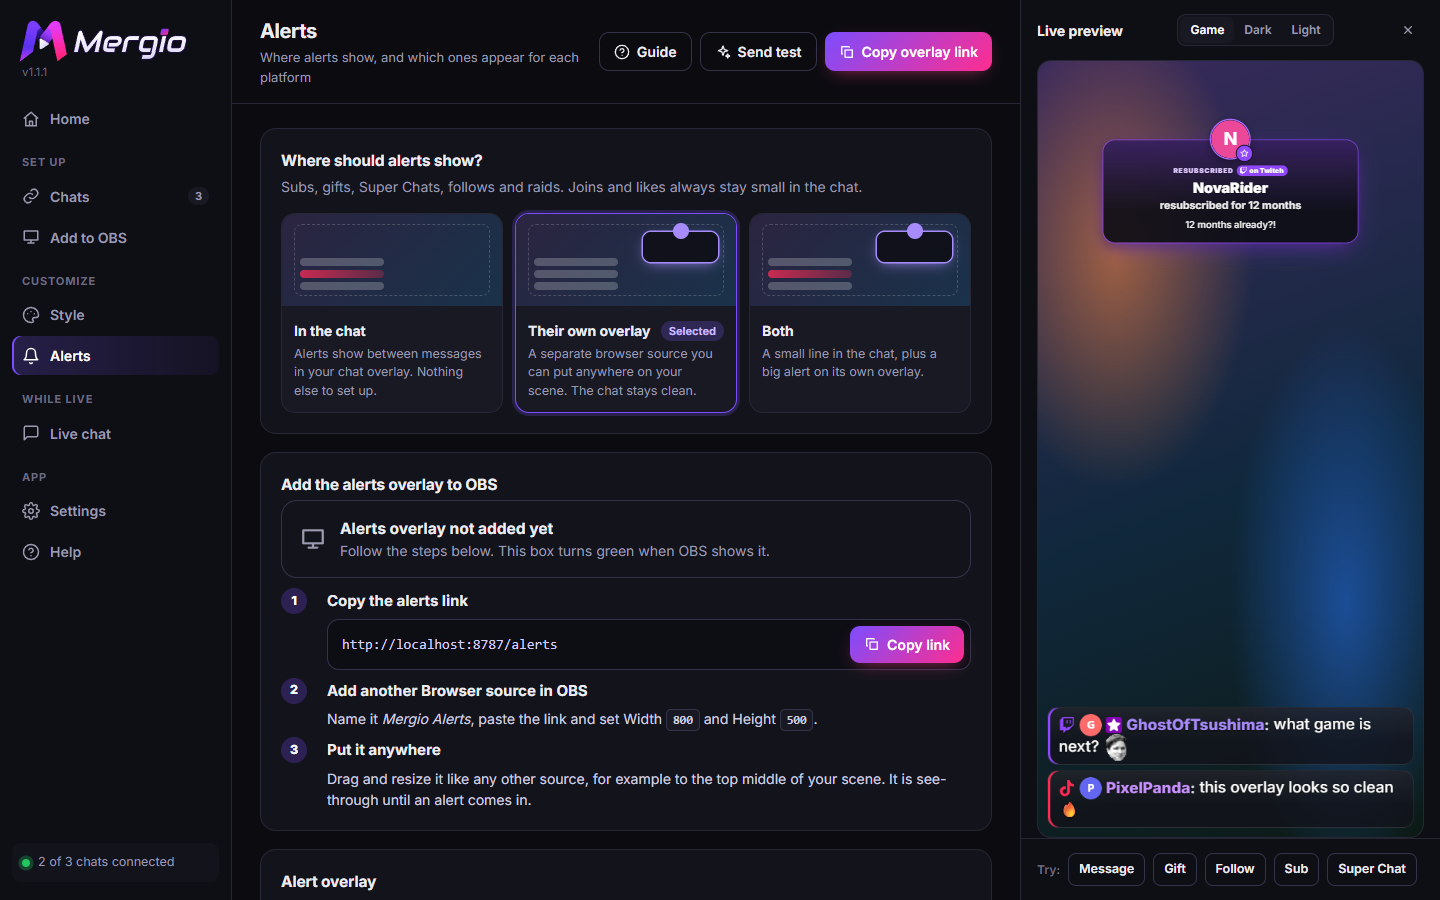
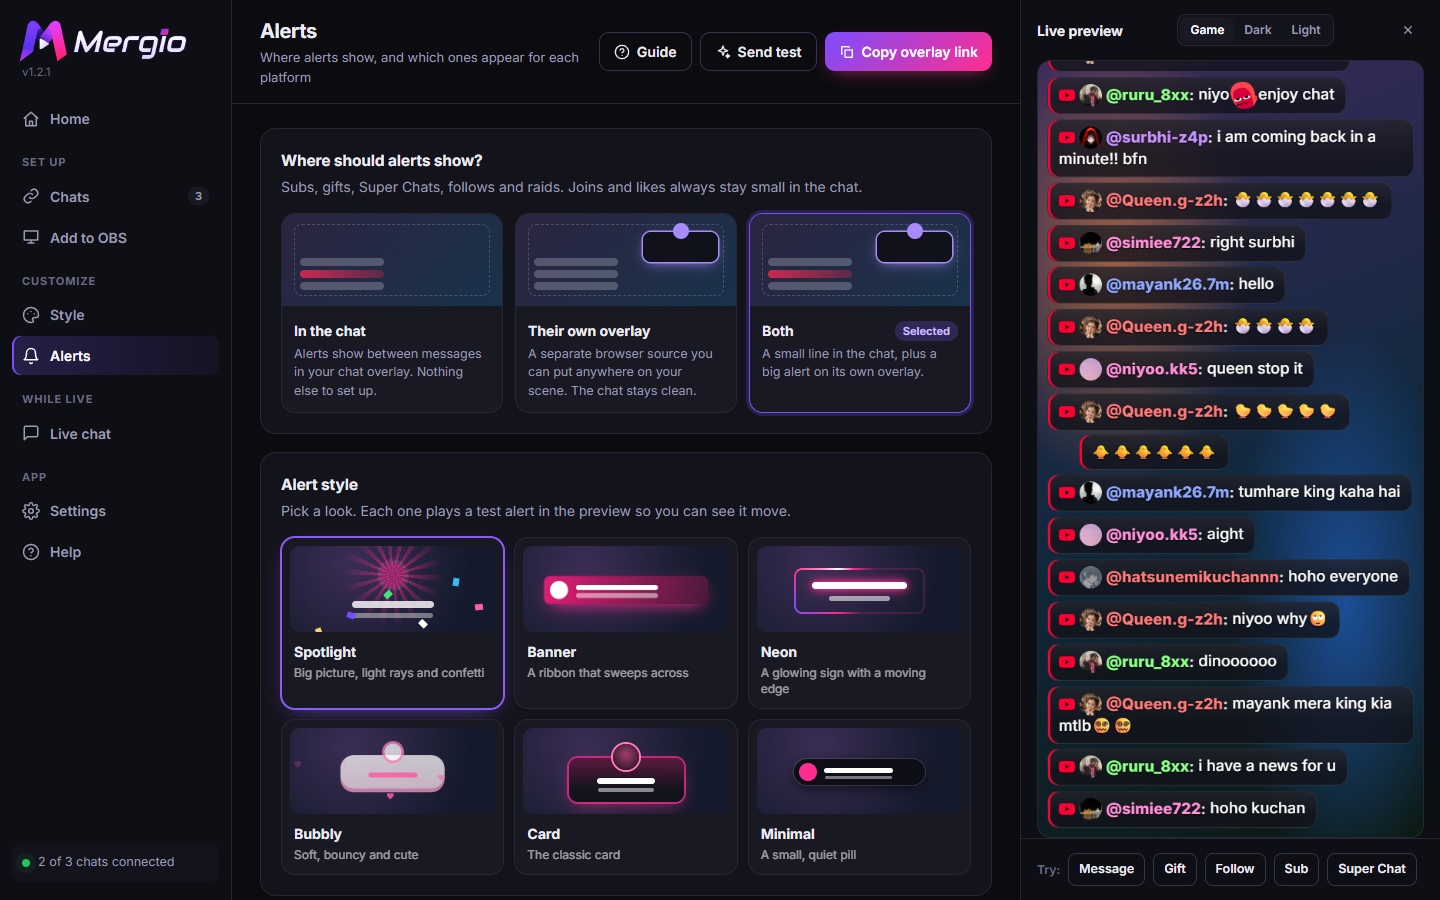
Document the alert styles and chime

diff --git a/README.md b/README.md
@@ -205,10 +205,25 @@ Open **Alerts**. At the top, choose **where alerts show**:
 
 <div align="center"><img src="docs/guide/04-alerts.png" alt="The Alerts page: where alerts show, the alerts overlay link and settings" width="820"></div>
 
-If you pick an overlay, the page shows its link (`http://localhost:8787/alerts`) and the OBS steps. Add it like the chat overlay (step 7) as a second Browser source, for example **800 × 500**, and drag it wherever you want alerts to pop up. It's see-through until an alert comes in, and the box turns green when OBS shows it. You can set how long each alert stays, its size, where it sits in its box, the animation, and whether it shows the viewer's picture and message.
+If you pick an overlay, choose an **alert style**. Each tile plays a little preview, and clicking one sends a test alert to the preview so you can see it move:
+
+| Style | What it looks like |
+|---|---|
+| **Spotlight** (default) | The picture or gift, big, with spinning light rays, pulsing rings and a confetti shower |
+| **Banner** | A ribbon that sweeps in from the side with a shine running across it |
+| **Neon** | A glowing sign that flickers on, with a light running round its edge |
+| **Bubbly** | A soft, bouncy bubble with floating hearts |
+| **Card** | The classic card with the picture on top |
+| **Minimal** | A small, quiet pill |
+
+In every style the viewer's name animates in letter by letter, a thin bar shows how long the alert stays, and gift combos count up live. Below the styles you can set how long each alert stays, its size, where it sits in its box, whether it shows the viewer's picture and message, and an optional **chime** (made by Mergio, no sound files needed) with its volume.
+
+<div align="center"><img src="docs/guide/10-alert-styles.png" alt="The six alert styles: Spotlight, Banner, Neon, Bubbly, Card and Minimal" width="820"></div>
+
+Then add the alerts overlay to OBS. The page shows its link (`http://localhost:8787/alerts`) and the steps: add it like the chat overlay (step 7) as a second Browser source, for example **800 × 500**, and drag it wherever you want alerts to pop up. It's see-through until an alert comes in, and the box turns green when OBS shows it. The chime plays through your desktop audio; tick **Control audio via OBS** in the browser source's properties to give it its own volume slider in OBS.
 
 <div align="center">
-<img src="docs/guide/08-alert-gift.png" alt="A TikTok Galaxy gift on the alerts overlay" width="400"> <img src="docs/guide/09-alert-sub.png" alt="A Twitch resub on the alerts overlay" width="400">
+<img src="docs/guide/08-alert-gift.png" alt="A TikTok gift in the Spotlight style" width="400"> <img src="docs/guide/09-alert-sub.png" alt="A Twitch resub in the Neon style" width="400">
 </div>
 
 Below that, **Which alerts and messages to show** lists everything each platform can show: TikTok gifts, follows, subscriptions, joins and likes; Twitch Bits, subs, gift subs and raids; YouTube Super Chats and memberships; Kick follows, subs, gifted subs and KICKs. Switch off anything you don't want on screen, and press **Try** to see any of them. For TikTok you can also set a minimum gift value.
@@ -282,7 +297,7 @@ http://localhost:8787/overlay?fontSize=28&theme=neon&align=right&maxMessages=12
 
 Useful options: `theme` (glass, neon, minimal, soft, retro), `fontSize`, `font`, `align` (left/right), `scrollDirection` (normal/reversed), `fadeMessages` (true/false) with `hideAfter` (seconds), `maxMessages`, `showAvatar`, `showPlatform`, `useChatBubbles`, `inlineChat`, `groupStyle` (tuck, merge), `animation` (slide, pop, fade, none).
 
-The alerts overlay works the same way: `http://localhost:8787/alerts?size=1.3&position=top&duration=8` (`size`, `position` top/center/bottom, `duration` in seconds, `animation` pop/slide/fade, `showAvatar`, `showMessage`).
+The alerts overlay works the same way: `http://localhost:8787/alerts?size=1.3&position=top&duration=8` (`style` spotlight/banner/neon/bubble/card/toast, `size`, `position` top/center/bottom, `duration` in seconds, `animation` pop/slide/fade for Card and Minimal, `showAvatar`, `showMessage`, `sound`, `volume`).
 
 ## Platform notes
 
